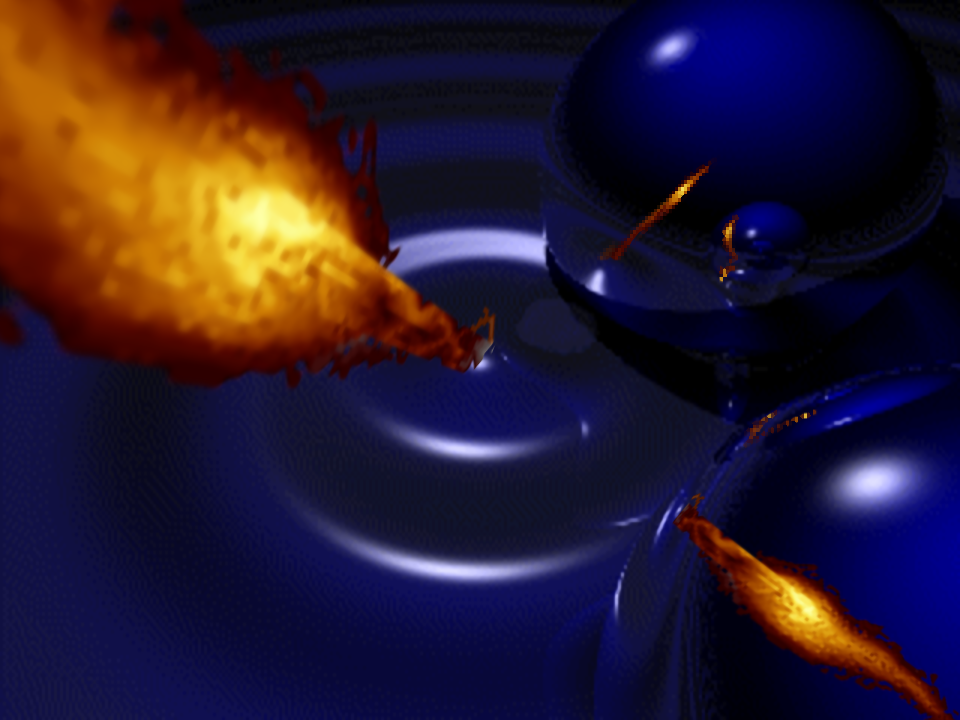
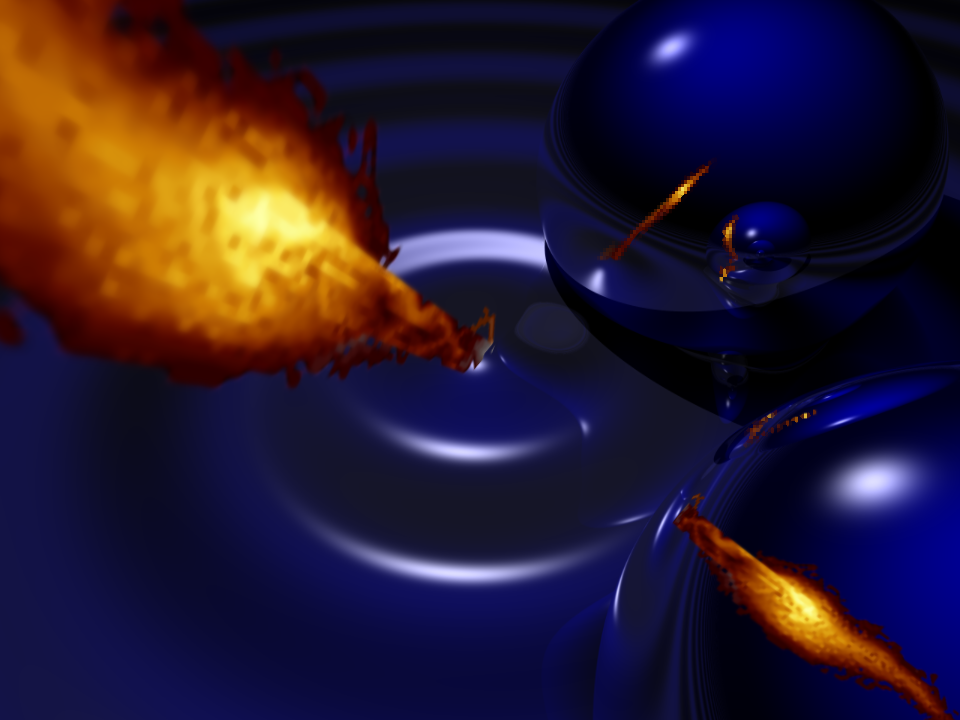
Docs: the water scroller's Modern background, how it was found and made; pictures retaken

diff --git a/state.md b/state.md
@@ -1,6 +1,6 @@
 # Project state
 
-Last updated: 2026-11-25 (water background researched: fog and half a pixel explain it; plan waits for the user)
+Last updated: 2026-11-25 (water background ray-traced again for the Modern look: built on its branch, waits for the user's look)
 
 ## Goal
 A native macOS app that re-creates Second Reality (Future Crew, 1993) from scratch, drawn on the graphics
@@ -21,7 +21,7 @@ complete C++ port is in `../SecondRealityPlusPlus`; the user's copy of the relea
   part is a real scene and follows its original part's own timing inside Play Demo. On their own, some
   scenes' lengths differ from the original parts on purpose: Glenz 2,360, Plasma 2,323, Plasma Cube
   2,048, Sine Landscape 2,048, 3D City 3,639, Ships 592.
-- Self-test: 635 checks, all pass. `--demo-timeline`: every part starts on the step the research simulation gives, and since
+- Self-test: 637 checks, all pass. `--demo-timeline`: every part starts on the step the research simulation gives, and since
   2026-11-25 `tools/demo_timeline.py` prints those steps itself (all 21 starts and the opening credits'
   9 cues equal the Swift's). main is pushed to GitHub (private repository), the pause and
   sound-output merge included (2026-11-25).
@@ -57,8 +57,23 @@ complete C++ port is in `../SecondRealityPlusPlus`; the user's copy of the relea
    submit`, `stapler staple`); an app icon and a version number. `notarytool` and `stapler` are in the
    Command Line Tools (checked). The self-test stays in the released program (it costs little). Whether
    the GitHub repository goes public is a separate decision.
-3. THE WATER BACKGROUND FROM POV-RAY: research done 2026-11-25 (see the water item under "Open
-   questions"); the plan for the Modern look waits for the user's OK. No code yet.
+3. THE WATER BACKGROUND FROM POV-RAY: BUILT 2026-11-25 on branch `claude/water-background-research-6ae63a`
+   (worktree of the same name), NOT YET MERGED: the user looks at it in that worktree's app first. After
+   the merge: `./build.sh` in the main folder, the full self-test there, and ask before pushing.
+   - The Modern look's background is `Data/Water/BACKGROUND-POVRAY.png` (2560x1600, 0.9 MB), made by
+     `tools/water_background.py --render` from `WATER/KK.POV` with POV-Ray 3.7 (the same file every
+     run). POV-Ray is a development tool only: the app and `build.sh` never run it.
+   - What made 3.7 give the 1993 picture, both measured: the scene's black FOG (3.7 leaves fog out while
+     the camera is inside the solid sky plane; `hollow` on the plane), and HALF A PIXEL (1.0 sampled each
+     pixel at its lower left corner; the camera is nudged). `WATER/DATA.TGA`, a raw 160x100 POV-Ray 1.0
+     output, shows Future Crew did not retouch the picture. All of it is on
+     `docs/scenes/water-scroller.md`, "The background, rendered again".
+   - Left over, not looked into further: the ripple highlights differ slightly (cause not found; reading
+     POV-Ray 1.0's source might tell: a download, not done). `R1.POV`...`R5.POV` and `RGB.TGA` are not
+     the versions that made the position tables, so the tables still cannot be made again.
+   - By eye, for the user: does the clean background suit the soft sword; the ripple highlights; does
+     the picture jump between the 1993 and Modern looks; the fades. If the balls' rims look soft on a
+     bigger screen, render at 16x (`SCALE` in the tool; the check's numbers and checksum change).
 4. Nothing else is planned. The other open questions start only when the user asks.
 
 ## Open questions (not to be started unasked)
@@ -70,41 +85,6 @@ Gone through with the user on 2026-11-25; what was dropped is under "Decisions i
   not read). Research first, no code; if the original really paused longer, the user decides whether the
   timing inside those two parts moves. See `docs/demo-timeline.md`, "Later found: it counts music ticks".
   Recommended; the user has not yet said to start.
-- The water background re-rendered from its POV-Ray scene instead of scaled up (Modern look only). Kept
-  open by the user (2026-11-25, "we are learning and having fun"). RESEARCHED 2026-11-25 on copies in
-  the scratch folder (nothing in the app changed); a plan was shown to the user, who has not yet agreed:
-  - The background's scene is `WATER/KK.POV`. POV-Ray 3.7 (Homebrew) renders it: `povray +Ikk.pov +W320
-    +H200 +MV1.0 -A -D +L.` with the folder's `COLORS.INC` and `SHAPES.INC` and an EMPTY `textures.inc`.
-  - NOT RETOUCHED: `WATER/DATA.TGA` is a raw 24-bit POV-Ray 1.0 output of the same scene at 160x100
-    (what `P.BAT` makes). Its pixel (x, y) equals the shipped background's pixel (2x, 2y+1) to 2.9 of
-    255 (the palette's steps). So every difference from today's render is POV-Ray 1.0 against 3.7.
-  - THE COLOURS WERE THE FOG. 3.7 leaves out fog while the camera is inside a solid object, and the
-    sky (`plane { <0 1 0> 140 }`) counts everything below it as inside. One word, `hollow`, on that
-    plane brings the scene's black fog back and the picture matches: no colour fit is needed (the old
-    "0.51 x render^1.3" is dropped).
-  - THE OFFSET IS HALF A PIXEL: 1.0 took each pixel's sample at its lower left corner, 3.7 at its
-    centre. Samples moved half a pixel left and half down fit best, a sharp minimum, and it is the same
-    half pixel that puts DATA.TGA on (2x, 2y+1). (The earlier note "original one row lower" had the
-    direction wrong: the original is half a row HIGHER and half a column to the right.) The camera is
-    given as explicit vectors with the direction nudged; that reproduces `look_at` byte for byte at
-    zero nudge.
-  - With both: 93% of pixels within 8 of 255, 98% within 16, 99.4% within 32 (unchanged 3.7: 2% within
-    32). Sphere highlights, sky and water agree to a level or two. LEFT: the highlights on the rippled
-    water are up to a pixel elsewhere and up to 20% brighter or dimmer (cause not found; ripple
-    amount, frequency and position were tried); the original's checkerboard dither and 190-colour
-    bands (palette reduction, not the scene); and the balls' "speckled rims", which are fine
-    reflected rings that one sample per pixel could not show.
-  - `R1.POV` to `R5.POV` and `RGB.TGA` as they are in the folder are NOT the versions that made the
-    tables: R1's strip covers 16,272 pixels and holds only 11,403 of the tables' 20,858; `RGB.TGA` has
-    no green (rows) and its red runs to 192, not 158. So the tables cannot be checked against R1. What
-    holds: the tables came from the same camera and renderer as the background, and no table pixel is
-    on the wrong side of the balls' outline in today's render.
-  - At full size the render is clearly better than Super-xBR (pictures in `build/pov-trial/`, not in
-    git): clean rims and reflections, no dither. 2560x1920 antialiased takes 2 s; the PNG is 1 MB.
-  - PLAN SHOWN (not agreed): render once with a development-only tool, ship the PNG in `Data/Water/`
-    (POV-Ray never needed by the app or `build.sh`), Modern look only, a self-test check that the
-    shipped picture scaled down matches the original. DOSBox is no longer needed for the retouching
-    question.
 - Does the GitHub repository go public? To settle with the signed release. Before it does: confirm the
   two songs are covered by the same public-domain release as the code (this matters for sharing the app
   too), and know that the deleted AI pictures (30 files, 168 MB) are in Git LFS storage, reachable from
@@ -172,7 +152,7 @@ Gone through with the user on 2026-11-25; what was dropped is under "Decisions i
 - `artwork/original/`: every picture the demo shows, exported to PNG by `tools/art_export.py` (do not edit
   by hand); `rgb/` copies are what the app loads. Inventory: `artwork/README.md`.
 - `tools/`: development-only Python (standard library only): one `<scene>_reference.py` per replayed
-  scene, `demo_timeline.py` + `music_steps.c`, `art_export.py`, `x86interp.py` (cannot run self-modifying code).
+  scene, `demo_timeline.py` + `music_steps.c`, `art_export.py`, `water_background.py` (needs POV-Ray), `x86interp.py` (cannot run self-modifying code).
 - `ThirdParty/libopenmpt` (unmodified source, the only dependency), `docs/` (see the end of this file).
 
 ## Changing or rebuilding a scene
@@ -197,6 +177,8 @@ All parts are built; this is the checklist when one is redone or a new one is ad
 - Every scene is stepped at 70 per second; the Modern look blends between steps. Every canvas is shown 4:3.
 - 1993 look = exact, including the original's slips. Modern look may stray where it is better; record each
   straying on the scene's page.
+- A picture re-made from its original source ships as a FILE made by a development tool (the water
+  background, POV-Ray): nothing new may be needed by the app or `build.sh` without the user's say.
 - Calculate tables from the original's generator where that reproduces the file exactly; ship the file
   (with a README saying why) where it cannot be remade (lens table 4, the scrollers' position tables).
 - Large binary original data is loaded from `Data/`, not written into Swift source.

diff --git a/docs/scenes/water-scroller.md b/docs/scenes/water-scroller.md
@@ -22,8 +22,9 @@ before the 3D sine landscape. It is called a scroller, but there is no text in i
   the music as the original did, and the music gives exactly those lengths (see below).
 
 **This scene uses original artwork and data:** the background picture, the sword picture and three
-position tables, in [Data/Water/](../../Data/Water/README.md) (154 KB). The tables cannot be calculated;
-see below.
+position tables, in [Data/Water/](../../Data/Water/README.md) (154 KB), and for the Modern look the
+background rendered again from its original scene file (0.9 MB). The tables cannot be calculated; see
+below.
 
 ## How the original did it
 
@@ -75,9 +76,10 @@ mountain scroller.
 
 **Modern look:** drawn afresh every frame.
 
-- The background is the picture made 8x larger by Super-xBR. The sword is its own picture made 8x the
-  same way (the user's choice, 2026-11-25, as for the mountain scroller's text), as two pictures: its
-  colours on black, and its outline.
+- The background is ray-traced again from the original scene file, at 8 times the size (2560x1600): see
+  "The background, rendered again" below. The sword is its own picture made 8x by Super-xBR (the user's
+  choice, 2026-11-25, as for the mountain scroller's text), as two pictures: its colours on black, and
+  its outline.
 - The sword's place comes from the same tables, turned into the smooth map the mountain scroller uses:
   every pixel gets a best-fit plane through the places where its neighbours' sword coordinates step, and
   each screen pixel blends the planes around it. The sword then glides instead of creeping.
@@ -91,9 +93,41 @@ mountain scroller.
 |---|---|---|---|
 | Sword movement | a third of a column a refresh, a third of the pixels at a time | the same | continuous |
 | Sword near the viewer | blocks up to 24 pixels | the same | smooth but soft (see below) |
+| Background | 320x200, 190 colours, dithered | the same | ray-traced again at 2560x1600, full colour |
 | Fades | red twice as fast, whole levels | the same | red twice as fast, smooth |
 | Green and blue after the fade-in | stop at level 62 | the same | reach the full colour |
 | Still picture before the sword | 7.4 s (waiting for the music) | the same, also on its own | the same |
+
+## The background, rendered again
+
+The scene file that made the background is still in the source release: `WATER/KK.POV`, for POV-Ray 1.0
+(1992). `tools/water_background.py` renders it with POV-Ray 3.7 at 2560x1600 with smoothed edges, and
+the result ships as `Data/Water/BACKGROUND-POVRAY.png`. POV-Ray is needed only to make that file again;
+the app and `build.sh` never run it. Rendering takes about two seconds (in 1993, at a guess, a day).
+
+Two things had to be put right before 3.7 gave the 1993 picture, both found by measuring (2026-11-25):
+
+- **The fog.** The scene has black fog, which is what makes the picture so dark. POV-Ray 3.7 leaves fog
+  out while the camera is inside a solid object, and the scene's sky, a plane high above, counts
+  everything below it as its inside. One added word, `hollow`, on that plane brings the fog back.
+- **Half a pixel.** POV-Ray 1.0 took each pixel's sample at the pixel's lower left corner, 3.7 at its
+  centre. The tool writes the camera out as plain vectors and nudges it half an original pixel left and
+  half down. Each original pixel is then exactly the middle of an 8x8 block of the new picture, which is
+  where the sword's map and masks expect it.
+
+That nothing else is needed is known from `WATER/DATA.TGA`: a raw 160x100 POV-Ray 1.0 output of the same
+scene, left in the folder. Its pixel (x, y) equals the shipped background's pixel (2x, 2y+1) to within
+the palette's steps, so Future Crew did not retouch the picture, and the darkness is the renderer's.
+
+With both fixes, the new picture scaled back down is within 8 (of 255) of the original at 92% of pixels
+and within 32 at 99.4%. What still differs: the highlights on the ripples sit up to a pixel differently
+and are up to a fifth brighter or dimmer (cause not found); the original's checkerboard dither and colour
+bands are gone (they came from reducing the picture to 190 colours); and the speckled rims of the balls
+turn out to be fine reflected rings that one sample per pixel could not show.
+
+`R1.POV` to `R5.POV` and `RGB.TGA` are the scene with mirror surfaces and a colour-ramp strip, the way
+the position tables were made, but not the versions that made the shipped tables: the tables still
+cannot be made again.
 
 ## Checks
 
@@ -108,6 +142,10 @@ mountain scroller.
 - In a silent Play Demo run it checks, against the demo script's own numbers, that the fade-in, the
   scroll and the fade-out start on the very steps the script gets past its three music cues, that the
   sine landscape follows 65 steps later, and that the scene on its own uses the same lengths.
+- The Modern background: the file's checksum, and the still picture as the Modern look DRAWS it (at
+  320x200) against the original background: 90% of pixels or more within 8 of 255, and a better fit in
+  place than moved one pixel in any direction. Seen to fail with the background drawn one pixel off,
+  with a picture rendered without the half-pixel nudge, and with one rendered without the fog.
 - Each was seen to fail with the detail broken on purpose: red not doubled, the scroll a step early, the
   tables taken in the other order, the section cue a row early, the fade-out cue a row early, the new
   column put straight into the window's last cell.
@@ -122,12 +160,7 @@ mountain scroller.
 - Modern: the small reflections are still drawn one 320x200 pixel at a time (each an averaged colour)
   and stay coarse.
 - Modern: green and blue reach their full colour after the fade-in.
-- The background is the original picture scaled up, not re-rendered. Researched 2026-11-25, not built:
-  its scene is `WATER/KK.POV`, and POV-Ray 3.7 reproduces the picture once two things are put right.
-  The scene's black fog must be switched back on (3.7 drops fog while the camera is "inside" the sky
-  plane; `hollow` on the plane fixes it), and the sample points moved half a pixel left and down
-  (POV-Ray 1.0 sampled each pixel at its corner). `WATER/DATA.TGA`, a raw 160x100 POV-Ray 1.0 output
-  of the scene, shows the picture was not retouched. Left over: the highlights on the ripples differ
-  slightly. `R1.POV` to `R5.POV` and `RGB.TGA` are not the versions that made the position tables.
+- Modern: the background is a new rendering, so its ripple highlights differ slightly from the
+  original's and its dither is gone (see above). The sword on it is still the 1993 picture scaled up.
 - The original drew straight onto the screen being shown; any tearing that caused is not copied.
 - Not compared with the original running.

diff --git a/Data/Water/README.md b/Data/Water/README.md
@@ -1,14 +1,24 @@
 # The water scroller's original files
 
 Original data from Second Reality (Future Crew, 1993), part 13 (`WATER`, the water scroller, by Trug),
-copied unchanged from `../secondreality/WATER/`. `./build.sh` copies this folder into the app
-(`Resources/Water/`). 154 KB in all.
+copied unchanged from `../secondreality/WATER/`, and one picture made from an original file (below).
+`./build.sh` copies this folder into the app (`Resources/Water/`). The five original files are 154 KB.
 
 | File | What |
 |---|---|
 | `BKG.CLX` | The background: a 10-byte header (`RIX3`, 320, 200), 256 colours (3 bytes each, 0...63), then 320x200 colour numbers (0...191). The same picture is exported as `artwork/original/13-water-background.png`; the scene's 1993 look needs the colour NUMBERS. The part does not use this file's palette (see the next row). |
 | `MIEKKA.SCI` | The sword ("miekka" is Finnish for sword): the same header (400 wide; its height word, 250, is wrong: the file holds 35 rows and the part uses 34), THE PART'S PALETTE (the same as the background's in colours 0...191; 192...255 are the sword's), then 400x34 colour numbers, 0 = nothing. Exported as `artwork/original/13-water-font.png`. |
 | `WAT1.DAT`, `WAT2.DAT`, `WAT3.DAT` | The three position tables. For each cell of a 158-column, 34-row window on the sword (row by row): a count (16-bit), then that many screen addresses (16-bit, row x 320 + column). The part draws one table per screen refresh in turn: at each address, the cell's colour number, or the background's again where the cell is empty. After the third table the window moves one sword column. |
+
+## The Modern look's background (not an original file)
+
+`BACKGROUND-POVRAY.png` (2560x1600, 0.9 MB) is the background ray-traced again, at 8 times the size, from
+the original scene file `../secondreality/WATER/KK.POV`. `tools/water_background.py --render` makes it
+with POV-Ray 3.7 (`brew install povray`), the same file every time; without `--render` the tool compares
+the picture with `BKG.CLX`. Only that tool needs POV-Ray: the app and `build.sh` use the PNG. The tool
+changes the scene in two places so that 3.7 gives what POV-Ray 1.0 gave (the fog, and where in a pixel
+the sample is taken); `docs/scenes/water-scroller.md` says how that was found. The 1993 look does not use
+this file.
 
 ## Why the tables are files
 
@@ -41,3 +51,4 @@ SHA-256:
     4a454f4e529fe1617c1b6cafcd0b7852f198eb870e37f52da510f2dc5201e800  WAT1.DAT
     dc513b4f06d2876a28963f4d1e8b1c509d4fff1c65b28460f031d1ce6210f3e7  WAT2.DAT
     b7af775c7247e2eed95800a68f8901ab641e735d896bbf7a79c85731cd38e27b  WAT3.DAT
+    71bbe82d4b8d219419cf098758176d3a624c7e54976647114fc67d6e28521719  BACKGROUND-POVRAY.png

diff --git a/artwork/README.md b/artwork/README.md
@@ -65,7 +65,7 @@ shape: 320x200 and 320x400 pictures become 1600x1200; the two 640-wide pictures 
 | `09-mountain-font` | 9 | 640x32 | Not a font: one picture of the whole text, "ANOTHER WAY TO SCROLL", in values 0...7 that the program adds to the background's colour numbers. |
 | `10-lens-picture` | 10, lens and rotozoomer (`LENS`) | 320x200 | The bald head. Both effects use it: the lens bends and tints it, and the rotozoomer spins a squeezed copy of it filling the screen. The lens tints by adding to **colours 0-63**: keep that in mind if the colours change. |
 | `10-lens-shape` | 10 | 320x200 | Not shown: the drawn shape of the lens (colours 1-4 mark its zones), turned into the lens's tables when building. The Lens scene works its tables out from it. |
-| `13-water-background` | 13, water scroller (`WATER`) | 320x200 | Ray-traced scene with chrome balls on rippling water. Made with POV-Ray, and scene files are still in `WATER/` (`R1.POV` to `R5.POV`, `WATERBOW.POV` and others): **re-rendering at high resolution may beat scaling up.** Which file made this picture is not yet known. The text is placed through fixed tables, as in part 9. |
+| `13-water-background` | 13, water scroller (`WATER`) | 320x200 | Ray-traced scene with chrome balls on rippling water. Made with POV-Ray 1.0 from `WATER/KK.POV`; the Modern look shows that scene rendered again at 2560x1600 (`Data/Water/BACKGROUND-POVRAY.png`, see `docs/scenes/water-scroller.md`), so the app no longer loads this export. The text is placed through fixed tables, as in part 9. |
 | `13-water-font` | 13 | 400x35 | Not a font: a picture of a sword with a flame in front and sparks behind, with its own colours (192...255); the part slides it over the water (see `docs/scenes/water-scroller.md`). (The file's header says 400x250; the data is 400x35.) |
 | `15-jelly-logo` | 15, jelly logo (`JPLOGO`) | 320x400 | The warrior on a horse ("Ice Kingdom"). The program squashes and wobbles it row by row. |
 | `17-end-picture` | 17, end picture (`END`) | 320x400 | The Future Crew ring. |

diff --git a/README.md b/README.md
@@ -110,7 +110,7 @@ others need material that cannot be calculated, all of it public domain like the
 | Title Picture, End Picture, Troll, Screen Switches Off, Jelly Logo | The original pictures |
 | Lens, Rotozoomer | The original picture; the Lens also one table ([Data/Lens/](Data/Lens/README.md)) |
 | Mountain Scroller | Background, text picture and three position tables ([Data/Mountain/](Data/Mountain/README.md)) |
-| Water Scroller | Background, sword picture and three position tables ([Data/Water/](Data/Water/README.md)) |
+| Water Scroller | Background, sword picture and three position tables; the Modern look's background is ray-traced again from the original POV-Ray scene file ([Data/Water/](Data/Water/README.md)) |
 | Opening Credits | The released horizon and font ([Data/OpeningCredits/](Data/OpeningCredits/README.md)) |
 | Credits | The released pictures and font ([Data/Credits/](Data/Credits/README.md)) |
 | End Scroller | The released text and font ([Data/EndScroller/](Data/EndScroller/README.md)) |
